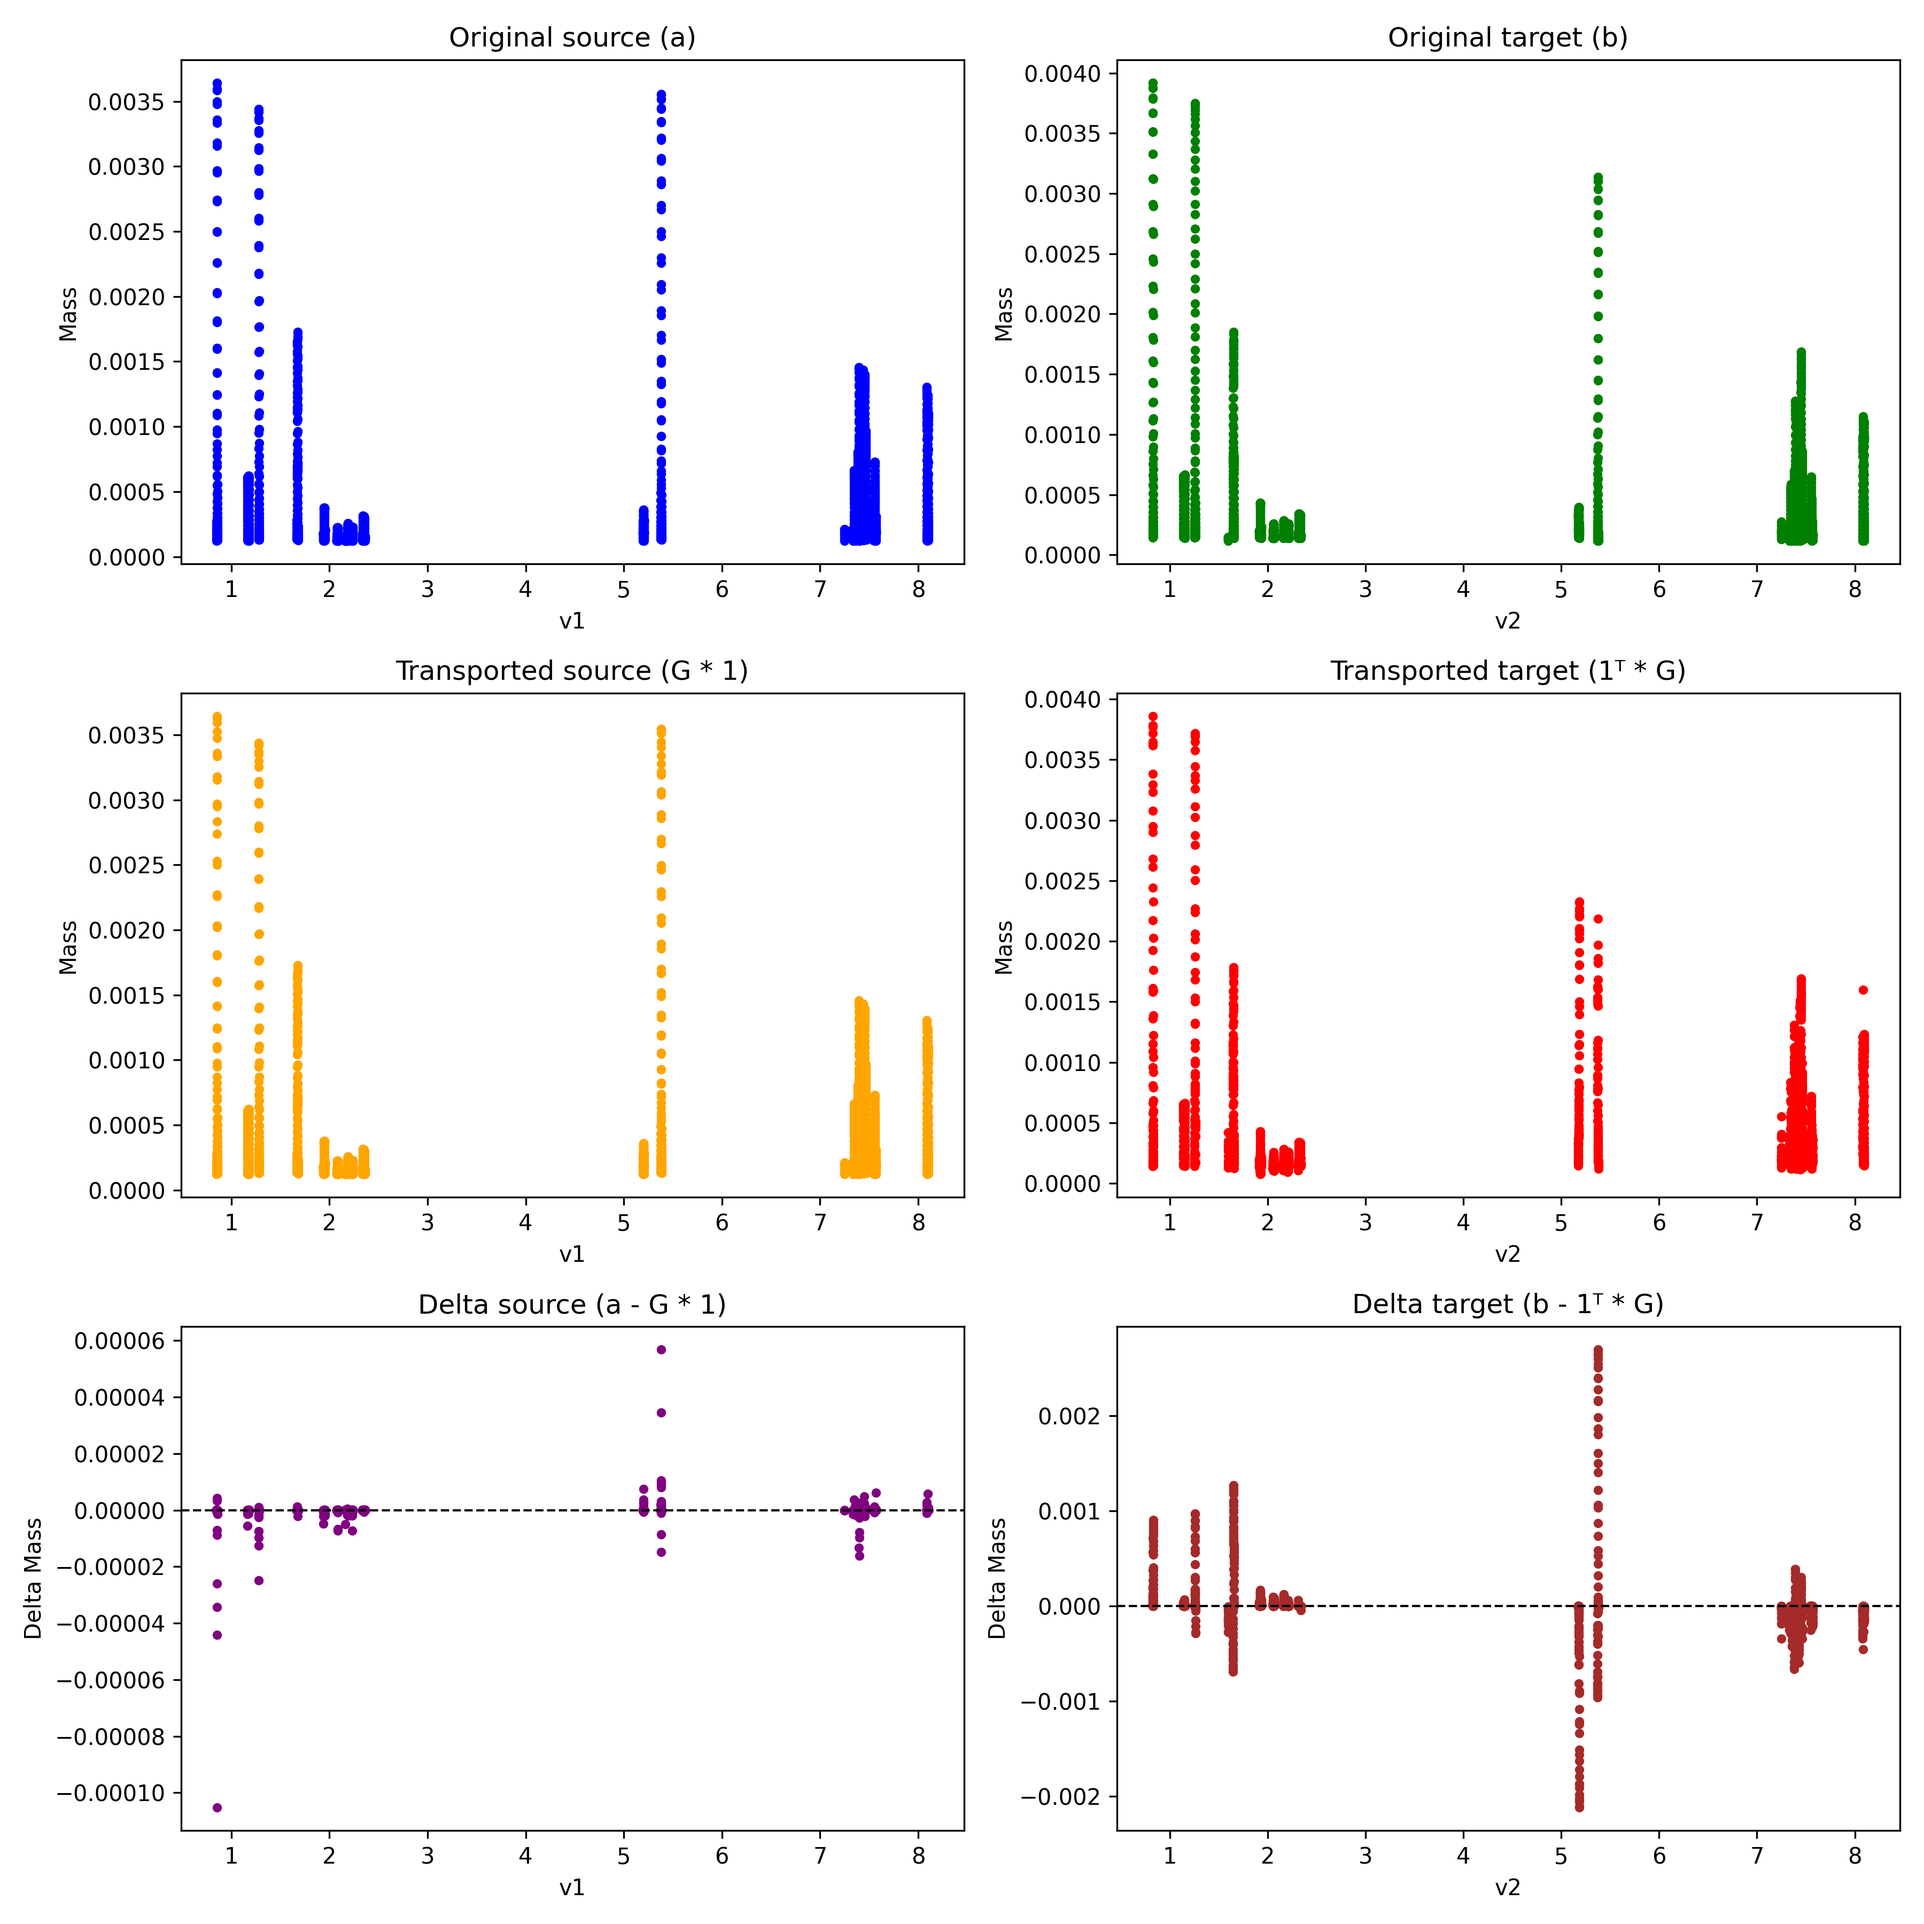
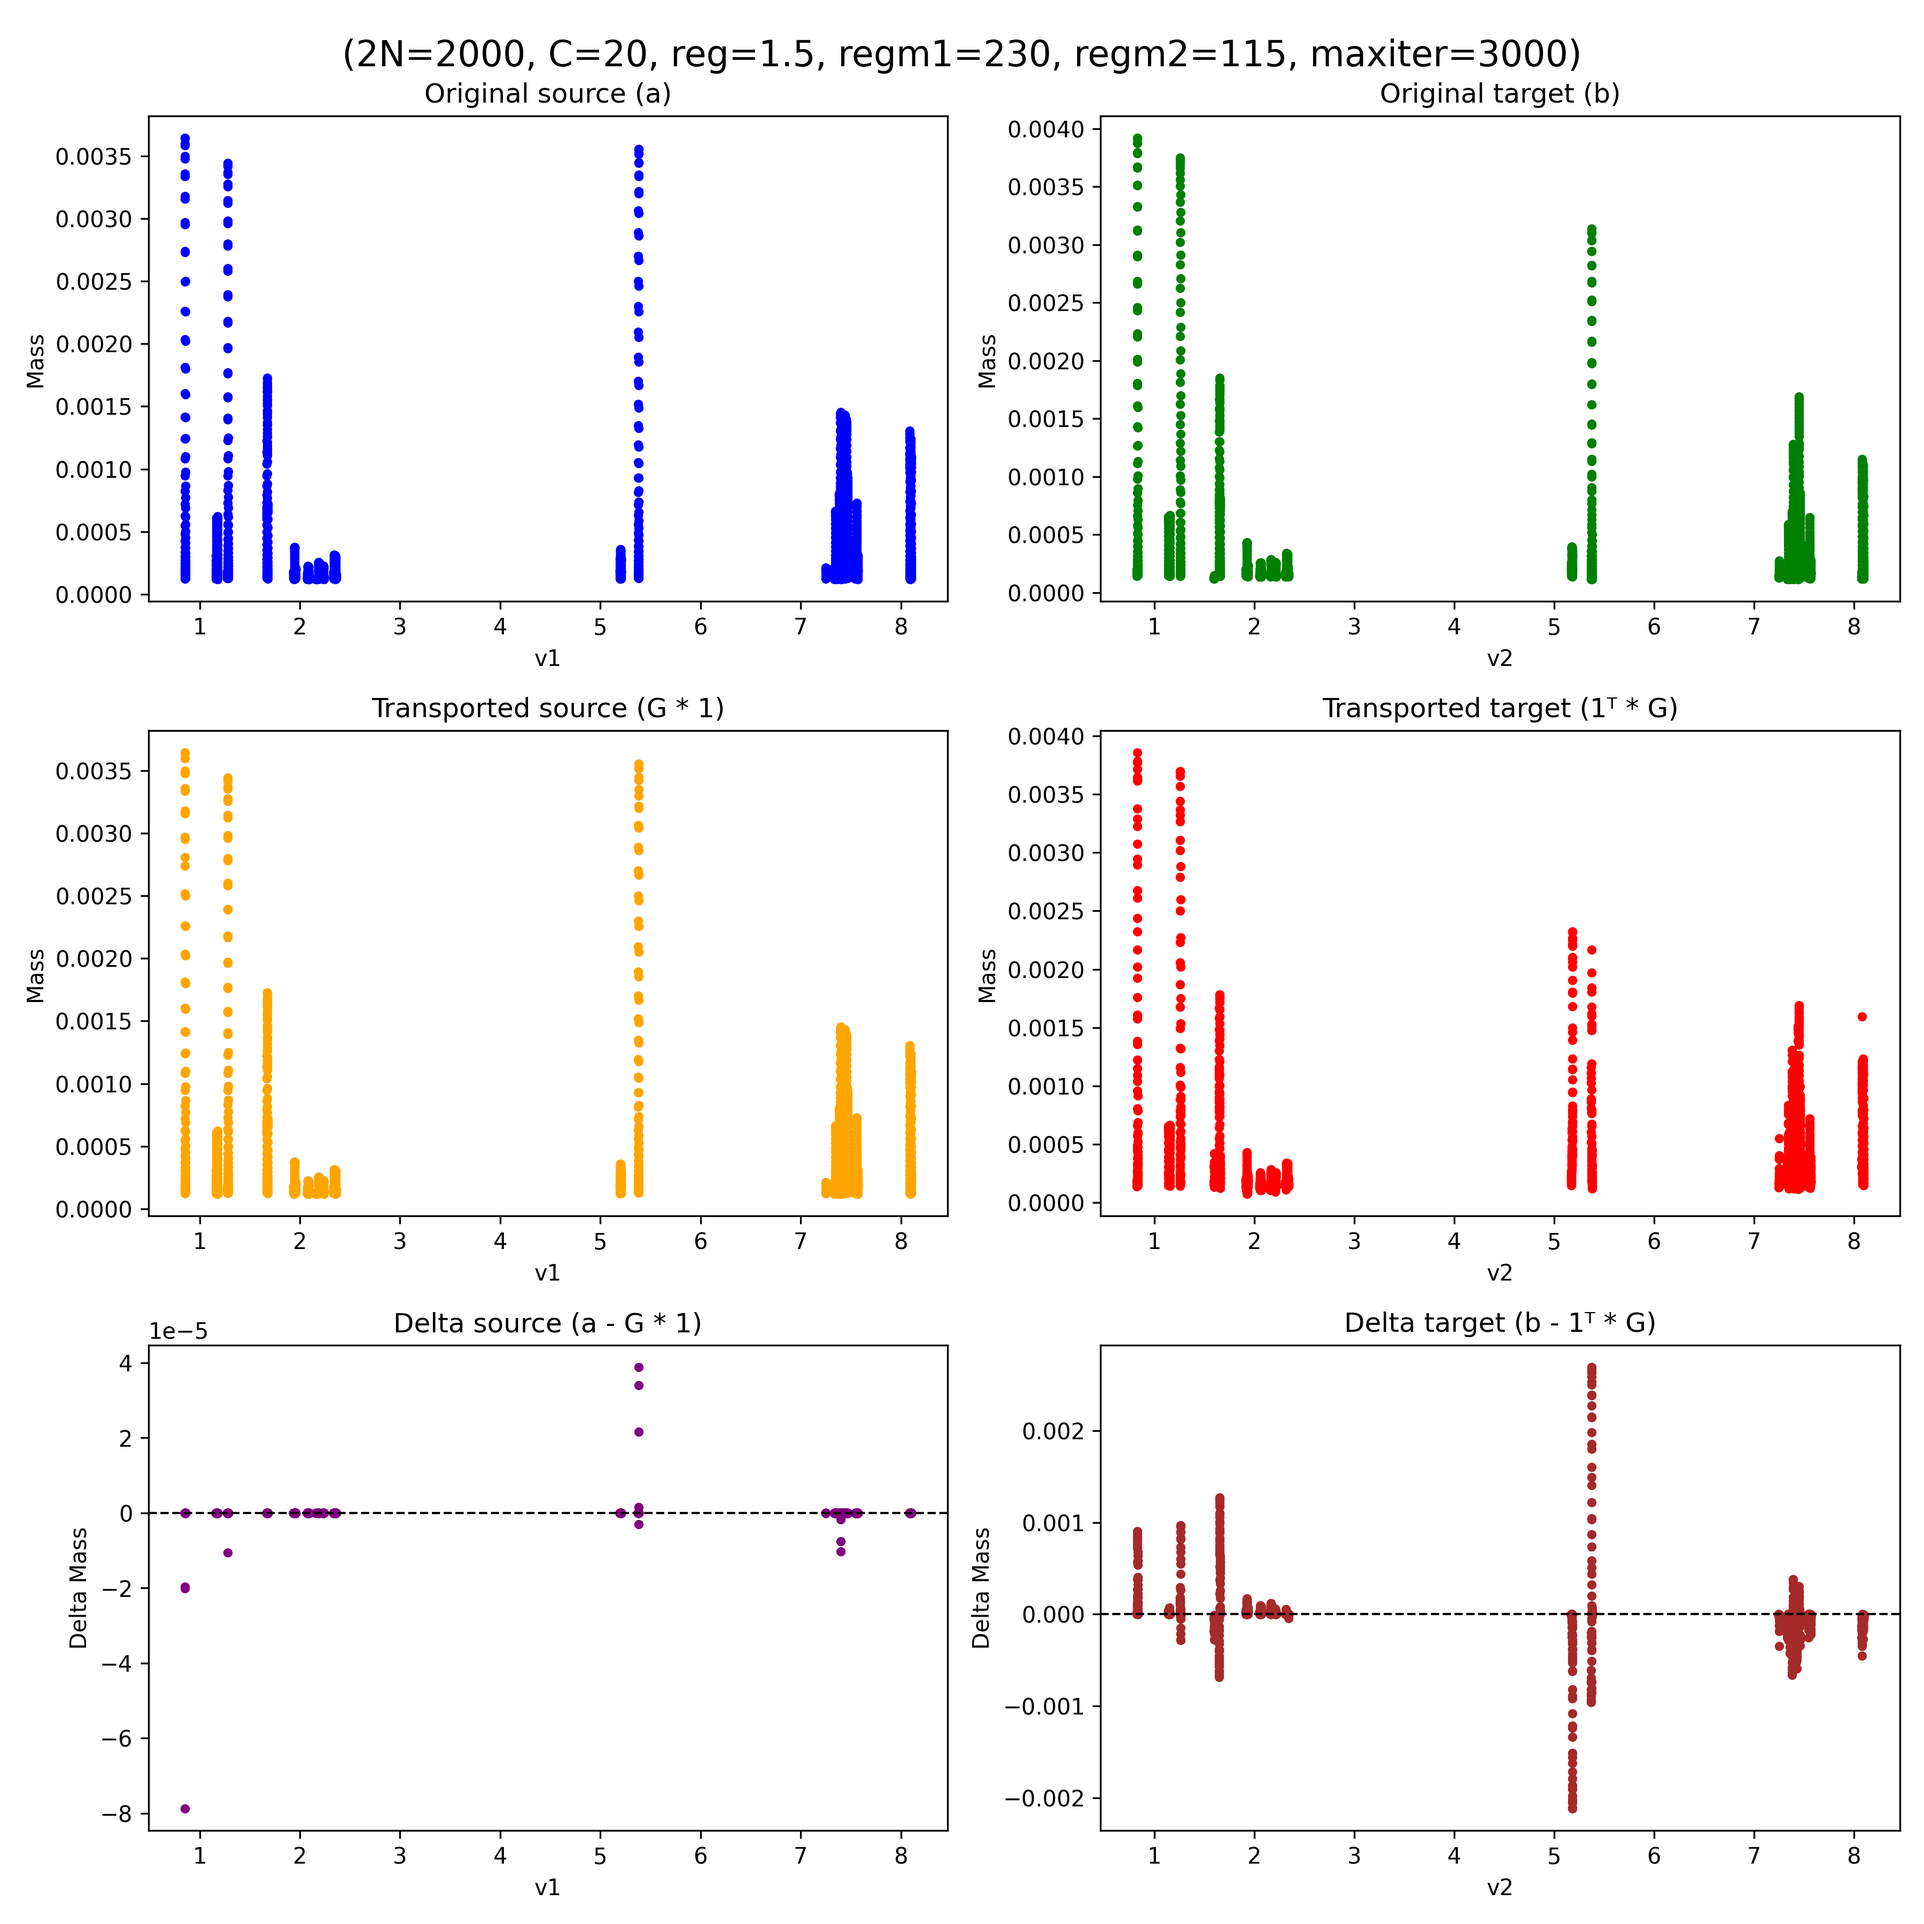
small fix

diff --git a/SimpleDecent/marginals.py b/SimpleDecent/marginals.py
@@ -35,7 +35,7 @@ regm2 = 115
 reg = 1.5
 N = 1000
 C = 20
-max_iter = 1000
+max_iter = 3000
 
 # Data
 print("Constructing transport plan...")
@@ -108,6 +108,9 @@ axs[2, 1].axhline(0, color='black', linestyle='--', linewidth=1)
 axs[2, 1].set_title('Delta target (b - 1ᵀ * G)')
 axs[2, 1].set_xlabel('v2')
 axs[2, 1].set_ylabel('Delta Mass')
+
+#title
+plt.suptitle(f'(2N={2*N}, C={C}, reg={reg}, regm1={regm1}, regm2={regm2}, maxiter={max_iter})', fontsize=16)
 
 plt.tight_layout()
 
